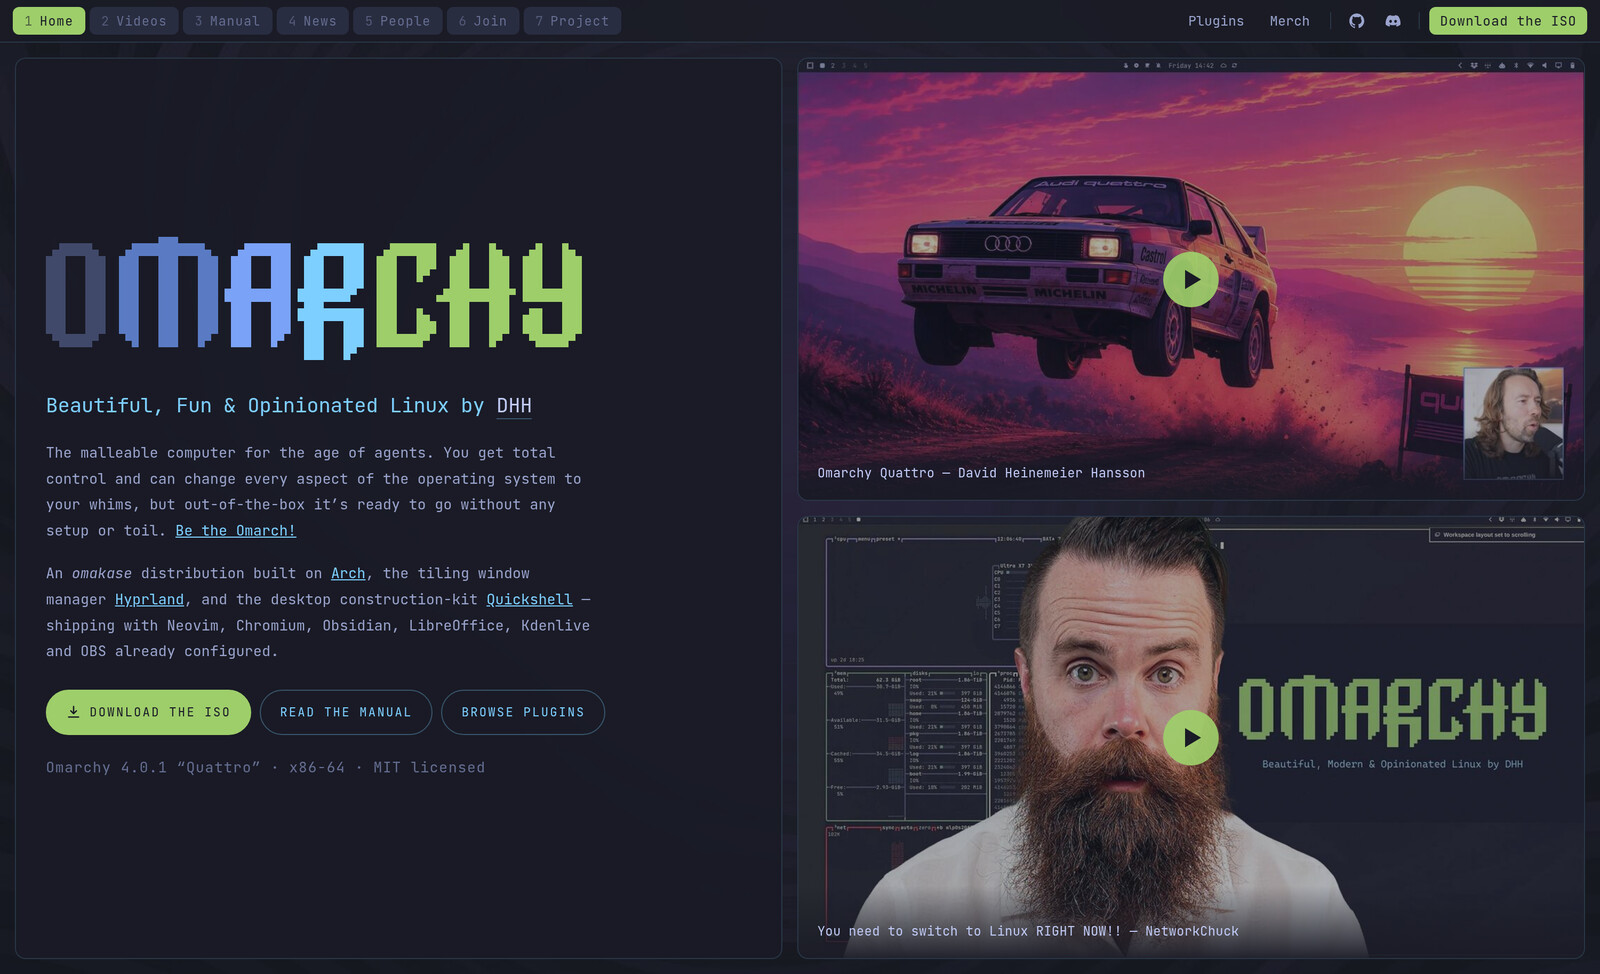
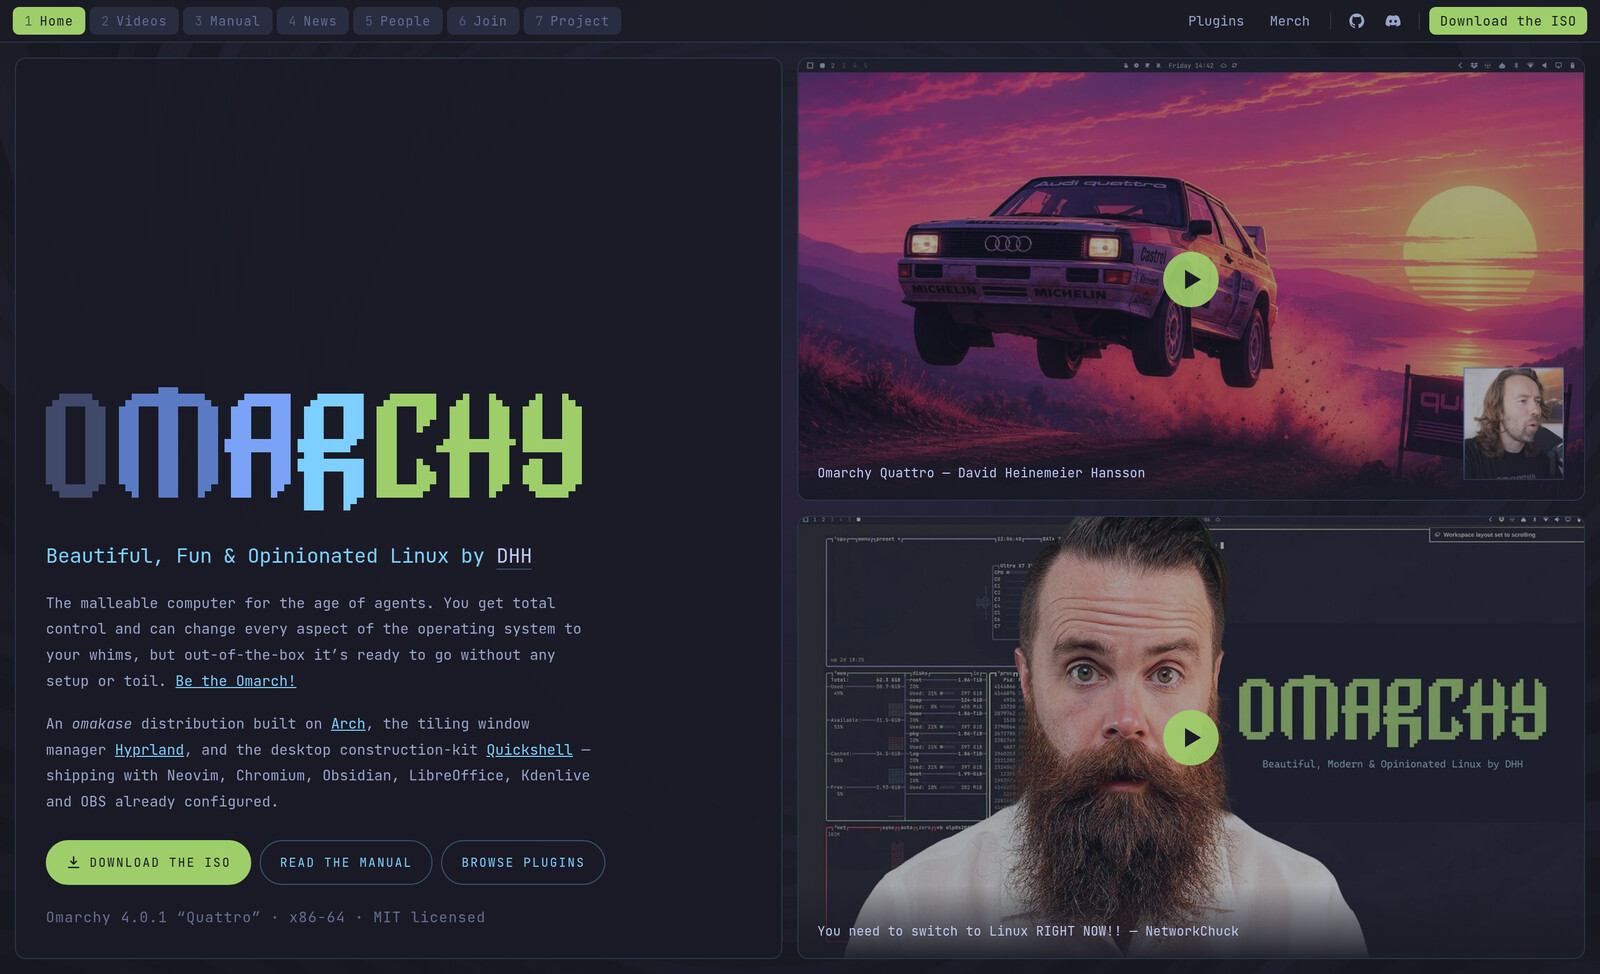
Revert "Balance the hero: slack was piling up above the wordmark"
This reverts commit aa47cd856854edf7ea3e9808559787fb6847b4fb.

diff --git a/assets/css/shell.css b/assets/css/shell.css
@@ -196,8 +196,7 @@ a{color:inherit}
 .vstack{display:flex;flex-direction:column;gap:var(--gap);height:100%;min-height:0}
 .vstack .win.flush{flex:1 1 0;min-height:0;width:100%}
 /* the home workspace is fixed-height; scroll rather than clip on short viewports */
-/* centre the block so slack splits top and bottom instead of piling at the top */
-#ws-home .win.hero{overflow-y:auto;justify-content:center}
+#ws-home .win.hero{overflow-y:auto}
 
 /* ==========================================================================
    Type
@@ -205,7 +204,7 @@ a{color:inherit}
 h1,h2,h3,h4{color:var(--glow);margin:0;font-weight:700;letter-spacing:-.01em;text-wrap:balance}
 
 /* the wordmark is the hero; the tagline supports it rather than competing */
-.hero .mark{line-height:0}
+.hero .mark{margin-top:auto;line-height:0}
 .hero .bigmark{
   width:100%;max-width:min(560px,76%);height:auto;display:block;
 }
